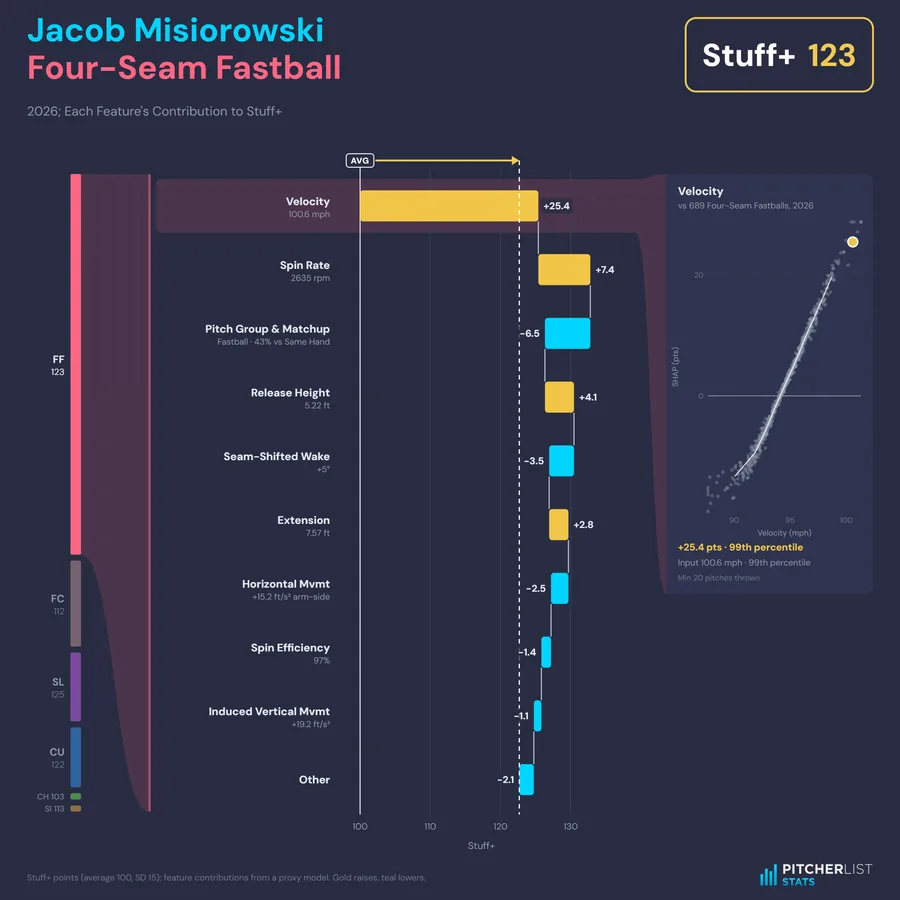
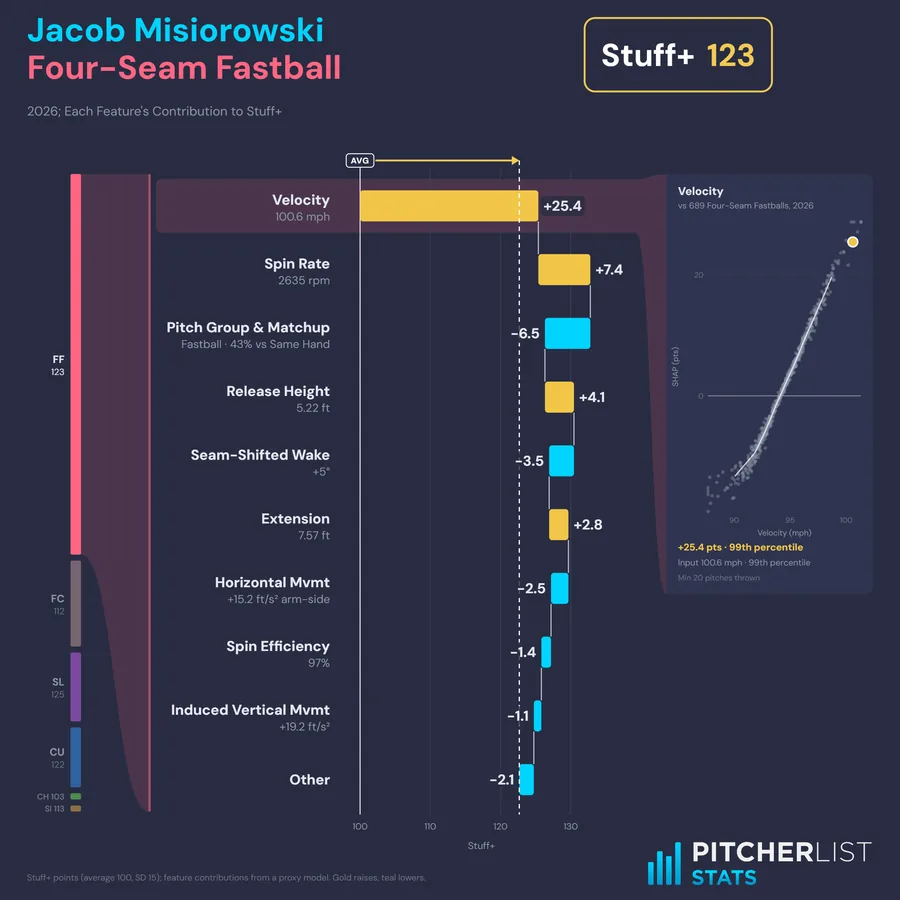
Model Drilldown: KPI box placement, doubled wordmark, fitted waterfall labels, phone fit
- The KPI box is centred between where the season's longest pitcher name (or pitch type name)
  ends at the title size and the card's right edge, so it sits still from pitcher to pitcher.
- The Pitcher List wordmark is twice the size (300 px). Footer notes wrap to stay clear of it,
  and the beeswarm's colour key moves up above it.
- The waterfall's row labels, sub-labels (0.8x) and value numbers share one font size: the
  largest at which every label stays on one line between the funnel and the bars and every
  label block fits its row (14.5-32 px; 19 px for the feature splits, 25 for outcomes).
  Value chips scale with it.
- The drilldown figure scales to the screen on a phone: as wide as its card, no taller than the
  viewport, still square, no sideways scroll. The beeswarm and Sankey keep their scroll.
- Homepage tile redrawn (?v=6).

charts.js ?v=36, app.js ?v=38.

diff --git a/model-drilldown/charts.js b/model-drilldown/charts.js
@@ -53,6 +53,12 @@ export function kpiColor(t) {
   return `rgb(${to.map((c) => Math.round(255 + (c - 255) * a)).join(',')})`;
 }
 
+// Where the longest title line ends: the longest of these names, or of the pitch type names
+// (the title's second line), at the title's 44 px.
+export function titleRight(names) {
+  return 36 + Math.max(...names.map((n) => textWidth(n, 44)), ...Object.values(PITCH_NAMES).map((n) => textWidth(n, 44)));
+}
+
 // the KPI box's target on one line: "Stuff+", "In-Play Out% (PLV)", "ERA (Stuff)"
 export const kpiName = (model, target) => (isPlus(target) ? MODELS[model].title : `${TARGET_NAMES[target]} (${MODELS[model].short})`);
 
@@ -101,6 +107,20 @@ function valueColor(t) {
 const svgOpen = (W, H, cls) => `<svg xmlns="http://www.w3.org/2000/svg" viewBox="0 0 ${W} ${n1(H)}" class="${cls}" font-family='${FONT}' role="img">`
   + `<rect class="bg" data-m="bg" width="${W}" height="${n1(H)}" rx="10" fill="${C.card}"/>`;
 const wordmark = (x, y, w) => `<image class="wordmark" data-m="wm" href="${WORDMARK_URL}" x="${x}" y="${n1(y)}" width="${w}" height="${n1(w * WM_ASPECT)}"/>`;
+const WM_W = 300;  // the wordmark's width: twice the old 150
+const corner = (W, H) => wordmark(W - 36 - WM_W, H - 20 - WM_W * WM_ASPECT, WM_W);
+// A footer note, wrapped so it stays clear of the wordmark: its last line on H - 26, the lines
+// before it stacked above.
+function footnote(str, W, H) {
+  const max = W - 36 - WM_W - 24 - 36;
+  const lines = [''];
+  for (const word of str.split(' ')) {
+    const next = lines[lines.length - 1] ? `${lines[lines.length - 1]} ${word}` : word;
+    if (textWidth(next, 11.5) * 0.94 > max && lines[lines.length - 1]) lines.push(word);  // regular, not bold
+    else lines[lines.length - 1] = next;
+  }
+  return lines.map((l, i) => text(36, H - 26 - 16 * (lines.length - 1 - i), l, `font-size="11.5" fill="${C.faint}"`, i ? `foot${i}` : 'foot')).join('');
+}
 const text = (x, y, s, attrs = '', m = null) => `<text${m ? ` data-m="${esc(m)}"` : ''} x="${n1(x)}" y="${n1(y)}" ${attrs}>${esc(s)}</text>`;
 const head = (x, y, s, anchor, m, fill = C.faint, size = 11) => text(x, y, s.toUpperCase(), `font-size="${n1(size)}" font-weight="600" letter-spacing="${n1(size * 0.145)}" fill="${fill}" text-anchor="${anchor}"`, m);
 
@@ -118,7 +138,10 @@ function header(W, ctx, subtitle) {
   const lw = Math.max(...lines.map((l) => textWidth(l, size)));
   const vw = textWidth(val, VS);
   const bw = pad + lw + gap + vw + pad;
-  const kx = W - 36 - bw;
+  // centred between where the season's longest title line ends (ctx.titleRight, so the box
+  // sits still from pitcher to pitcher) and the card's right edge
+  const right = ctx.titleRight ?? titleRight([info.pitcher_name]);
+  const kx = Math.min(W - 12 - bw, (right + W) / 2 - bw / 2);
   const lx = kx + pad + lw / 2, vx = kx + pad + lw + gap;
   const base = one ? [cy + 15] : [cy - 3.5, cy + 18.5];  // one line shares the value's baseline
   const lab = `font-size="${size}" font-weight="700" fill="#fff" text-anchor="middle"`;
@@ -219,13 +242,24 @@ export function flowSvg(ctx) {
   let d0 = lo - pad, d1 = hi + pad * 1.6;
   // Widen the axis until every value, chip and all, fits beside its bar: a drag's number (left
   // of its bar) must clear the row labels, a lift's (right) the funnel.
+  // One font size for every row's label, value and sub-label (at 0.8x): the largest at which
+  // each label and sub-label fits on one line between the funnel's bracket and the bars, and each
+  // label block fits its row's height. Kept between the card's 14.5 and 32 px.
+  const subOf = (r) => (r.k === 'Other' || GROUPS[r.k] ? '' : r.detail);  // Other, Location, Count: name only
+  const per = (str) => textWidth(str, 100) / 100;  // width per px of font size
+  const room = LX - (HX0 + 14);
+  const FS = Math.max(14.5, Math.min(32,
+    room / Math.max(...rows.map((r) => per(r.label))),
+    room / (0.8 * Math.max(1e-9, ...rows.map((r) => per(subOf(r))))),
+    (S * 0.82) / 1.9));
+  const SUB = FS * 0.8;
   const ROOM_L = LX + 10, ROOM_R = HX1 - 6;
   for (let iter = 0; iter < 8; iter++) {
     const k = (X1 - X0) / (d1 - d0);
     let over = 0, under = 0, at = unit.league;
     for (const r of rows) {
       const end = at + r.v;
-      const tw = textWidth(f.d(r.v), 13) + 11;  // gap to the bar, chip padding
+      const tw = textWidth(f.d(r.v), FS) + 11;  // gap to the bar, chip padding
       if (r.v >= 0) over = Math.max(over, X0 + (Math.max(at, end) - d0) * k + tw - ROOM_R);
       else under = Math.max(under, ROOM_L - (X0 + (Math.min(at, end) - d0) * k - tw));
       at = end;
@@ -257,13 +291,13 @@ export function flowSvg(ctx) {
     // the lift, on a translucent chip so it reads over the league and final-value lines
     const right = r.v >= 0;
     const val = f.d(r.v);
-    const tw = textWidth(val, 13), tx = right ? b + 7 : a - 7;
-    front += `${g}><rect data-m="vb:${r.k}" x="${n1(right ? tx - 4 : tx - tw - 4)}" y="${n1(cy - 10)}" width="${n1(tw + 8)}" height="20" rx="4" fill="${C.card}" fill-opacity=".8"/>`;
-    front += text(tx, cy + 4.5, val, `font-size="13" font-weight="700" fill="${C.ink}" text-anchor="${right ? 'start' : 'end'}"`, `v:${r.k}`);
+    const tw = textWidth(val, FS), tx = right ? b + 7 : a - 7, ch = FS + 7;
+    front += `${g}><rect data-m="vb:${r.k}" x="${n1(right ? tx - 4 : tx - tw - 4)}" y="${n1(cy - ch / 2)}" width="${n1(tw + 8)}" height="${n1(ch)}" rx="4" fill="${C.card}" fill-opacity=".8"/>`;
+    front += text(tx, cy + FS * 0.35, val, `font-size="${n1(FS)}" font-weight="700" fill="${C.ink}" text-anchor="${right ? 'start' : 'end'}"`, `v:${r.k}`);
     // Other, Location and Count carry no sub-label here (the tooltip and league panel say more)
-    const sub = r.k === 'Other' || GROUPS[r.k] ? '' : r.detail;  // Other, Location, Count: name only
-    front += text(LX, sub ? cy - 1 : cy + 5, r.label, `font-size="14.5" font-weight="700" fill="${C.ink}" text-anchor="end"`, `l:${r.k}`);
-    if (sub) front += text(LX, cy + 15, sub, `font-size="11.5" fill="${C.muted}" text-anchor="end"`, `dt:${r.k}`);
+    const sub = subOf(r);
+    front += text(LX, sub ? cy - FS * 0.07 : cy + FS * 0.35, r.label, `font-size="${n1(FS)}" font-weight="700" fill="${C.ink}" text-anchor="end"`, `l:${r.k}`);
+    if (sub) front += text(LX, cy + FS * 1.03, sub, `font-size="${n1(SUB)}" fill="${C.muted}" text-anchor="end"`, `dt:${r.k}`);
     front += '</g>';
     if (on) selRow = { cy, col, r };
     x = end;
@@ -313,8 +347,8 @@ export function flowSvg(ctx) {
     : f.unit === 'wOBA' ? `wOBA on contact, per ball in play (league ${woba(unit.league)})`
     : f.unit === 'runs' ? `Runs per 9 innings (league ERA ${unit.league.toFixed(2)}): season constant − 9 × run value per pitch × modelled pitches per inning`
       : `Percentage points of the per-pitch probability (league ${unit.league.toFixed(1)}%)`;
-  s += text(36, H - 26, `${note}; ${ctx.byOutcome ? 'an exact split, no proxy' : 'feature contributions from a proxy model'}. ${good > 0 ? 'Gold raises, teal lowers' : 'Gold lowers, teal raises'}.`, `font-size="11.5" fill="${C.faint}"`, 'foot');
-  s += wordmark(W - 36 - 150, H - 48, 150);
+  s += footnote(`${note}; ${ctx.byOutcome ? 'an exact split, no proxy' : 'feature contributions from a proxy model'}. ${good > 0 ? 'Gold raises, teal lowers' : 'Gold lowers, teal raises'}.`, W, H);
+  s += corner(W, H);
   return s + '</svg>';
 }
 
@@ -473,7 +507,7 @@ export function swarmSvg(ctx) {
     .filter((r) => !r.season && !(r.k === 'is_primary' && inert))
     .sort((a, b) => Math.abs(b.v) - Math.abs(a.v));
   const BH = rows.length * RH;
-  const H = top + BH + 104;
+  const H = top + BH + 180;  // the axis, the colour key, then the wordmark under it
   let s = svgOpen(W, H, 'fig swarm-fig');
   s += header(W, ctx, `${season}  ·  every row's ${ctx.byOutcome ? 'run value' : 'SHAP'}, ${poolLabel.replace(/^vs /, '')}`);
   // One shared axis, clipped to the 0.5th-99.5th percentile of every row's values pooled (so one
@@ -552,13 +586,13 @@ export function swarmSvg(ctx) {
     byRow.push({ k: r.k, cy, pts });
   });
   // colour key
-  const kx = L, ky = H - 36;
+  const kx = L, ky = top + BH + 78;
   s += text(kx - 16, ky + 4, ctx.byOutcome ? 'Unit\'s predicted rate' : 'Unit\'s mean input', `font-size="11.5" fill="${C.muted}" text-anchor="end"`, 'k1');
   for (let i = 0; i <= 20; i++) s += `<rect data-m="kc:${i}" x="${kx + i * 6}" y="${ky - 5}" width="6.5" height="10" fill="${valueColor(i / 20)}"/>`;
   s += text(kx + 134, ky + 4, 'low → high   (grey: no single input)', `font-size="11.5" fill="${C.muted}"`, 'k2');
   s += `<path data-m="kd" d="M${kx + 400},${ky - 11}L${kx + 406},${ky}L${kx + 400},${ky + 11}L${kx + 394},${ky}Z" fill="${C.gold}" stroke="#fff" stroke-width="1.5" stroke-linejoin="round"/>`;
   s += text(kx + 414, ky + 4, `${info.pitcher_name}'s ${PITCH_NAMES[info.pt] || info.pt}`, `font-size="11.5" fill="${C.muted}"`, 'k3');
-  s += wordmark(W - 36 - 150, H - 48, 150);
+  s += corner(W, H);
   swarmPoints = { rows: byRow, RH };
   return s + '</svg>';
 }
@@ -622,7 +656,7 @@ export function sankeySvg(ctx) {
     });
   };
   const left = stack(lossOf), right = stack(gainOf), mid = stack(fh);
-  const H = Math.max(top + avail, ...[left, right, mid].map((c) => c[c.length - 1].y1)) + 100;
+  const H = Math.max(top + avail, ...[left, right, mid].map((c) => c[c.length - 1].y1)) + 130;
   let s = svgOpen(W, H, 'fig sankey-fig');
   s += header(W, ctx, `${season}  ·  ${model === 'stuff' ? 'Stuff' : 'PLV'} model outcome probabilities: what each row moves`);
   s += head(XL + NW, top - 22, 'Takes from', 'end', 'h1') + head(XM + NW / 2, top - 22, 'Row', 'middle', 'h2')
@@ -673,8 +707,8 @@ export function sankeySvg(ctx) {
     s += text(XM + NW + 8, (n.y0 + n.y1) / 2 + 4.5, `${f.label}  ${move(f).toFixed(2)}`, `font-size="13" font-weight="700" fill="${C.ink}" stroke="${C.card}" stroke-width="4" paint-order="stroke"`, `fl:${f.k}`);
     s += '</g>';
   });
-  s += text(36, H - 26, `Percentage points of each per-pitch outcome probability against the league; a row's number is the probability it moves. Ribbons under ${MIN_LINK} pp are left out.`, `font-size="11.5" fill="${C.faint}"`, 'foot');
-  s += wordmark(W - 36 - 150, H - 48, 150);
+  s += footnote(`Percentage points of each per-pitch outcome probability against the league; a row's number is the probability it moves. Ribbons under ${MIN_LINK} pp are left out.`, W, H);
+  s += corner(W, H);
   return s + '</svg>';
 }
 export const sankeyLink = (i) => sankeyLinks[i];

diff --git a/model-drilldown/app.js b/model-drilldown/app.js
@@ -9,8 +9,8 @@ import {
 } from './data.js?v=7';
 import {
   flowSvg, swarmSvg, sankeySvg, svgToPng, nearestPanelPoint, nearestSwarmPoint, sankeyLink,
-  formats, pctile, ord, niceTicks, C,
-} from './charts.js?v=33';
+  formats, pctile, ord, niceTicks, titleRight, C,
+} from './charts.js?v=36';
 import { morph } from './morph.js?v=1';
 
 const DEFAULT = { season: 2026, pitcher: 694819, pt: 'FF' };  // Jacob Misiorowski's four-seamer
@@ -228,6 +228,12 @@ function kpiShade(unit) {
   return { t: targetGood(state.target) * (2 * p - 1), floor, n: vals.length, pct: Math.round(100 * p) };
 }
 
+// where the season's longest pitcher name ends at the title size, for the KPI box's place
+function seasonTitleRight() {
+  feats._titleRight ??= titleRight(feats.pitchers.map((p) => p.name));
+  return feats._titleRight;
+}
+
 function render() {
   const info = feats.byUnit.get(`${state.pitcher}|${state.pt}`);
   const unit = units.byKey.get(`${state.pitcher}|${state.pt}|${tableTarget(state.target)}`);
@@ -247,7 +253,7 @@ function render() {
   const arsenal = feats.byId.get(state.pitcher).pts.map((u) => ({ pt: u.pt, n: u.n, unit: units.byKey.get(`${state.pitcher}|${u.pt}|${tableTarget(state.target)}`) }));
   const { pool, label, what } = poolFor(info);
   const perTarget = new Map([...TARGETS, ...RV].map((t) => [t, units.byKey.get(`${state.pitcher}|${state.pt}|${t}`)]));
-  view = { meta, model: state.model, target: state.target, season: state.season, info, unit, rows, arsenal, selected: row, pool, poolLabel: label, poolWhat: what, minN: Number(el.minN.value), units: perTarget, kpi: kpiShade(unit) };
+  view = { meta, model: state.model, target: state.target, season: state.season, info, unit, rows, arsenal, selected: row, pool, poolLabel: label, poolWhat: what, minN: Number(el.minN.value), titleRight: seasonTitleRight(), units: perTarget, kpi: kpiShade(unit) };
   // by outcome, the league charts read each row's run value and the unit's predicted rate
   if (byOutcome) {
     Object.assign(view, {

diff --git a/model-drilldown/index.html b/model-drilldown/index.html
@@ -2,9 +2,9 @@
 <html lang="en">
 <head>
 <meta charset="utf-8">
-<link rel="modulepreload" href="app.js?v=35">
+<link rel="modulepreload" href="app.js?v=38">
 <link rel="modulepreload" href="data.js?v=7">
-<link rel="modulepreload" href="charts.js?v=33">
+<link rel="modulepreload" href="charts.js?v=36">
 <link rel="modulepreload" href="morph.js?v=1">
 <link rel="modulepreload" href="https://cdn.jsdelivr.net/npm/hyparquet@1.31.1/+esm">
 <meta name="viewport" content="width=device-width,initial-scale=1">
@@ -67,6 +67,11 @@ button:disabled{opacity:.45; cursor:default}
 .opts input[type=checkbox]{width:16px; height:16px; margin:0; accent-color:var(--accent)}
 .figure{background:#292C42; border-radius:10px; overflow-x:auto; overscroll-behavior-x:contain}
 .figure svg{display:block; width:100%; min-width:900px; height:auto; user-select:none; -webkit-user-select:none}
+/* the drilldown is square and scales to the screen instead of scrolling: as wide as its card
+   allows, and no taller than the viewport */
+#flow{overflow:hidden}
+#flow svg{min-width:0; width:100%; max-width:min(100%, 100svh); margin:0 auto}
+@media (max-width:600px){ #out{padding:12px 8px} }
 .figure .row,.figure [data-pt],.figure .srow,.figure .fnode{cursor:pointer}
 .figure .panel-hit{cursor:crosshair}
 .figure .fx{transition:opacity .12s}
@@ -200,6 +205,6 @@ details[open] summary{margin-bottom:10px}
   </section>
 </main>
 <div id="tip" hidden role="tooltip"></div>
-<script type="module" src="app.js?v=35"></script>
+<script type="module" src="app.js?v=38"></script>
 </body>
 </html>

diff --git a/index.html b/index.html
@@ -136,7 +136,7 @@
 								</article>
 									<article class="style1">
 									<span class="image">
-										<img src="images/tile-model-drilldown.webp?v=5" srcset="images/tile-model-drilldown-720.webp?v=5 720w, images/tile-model-drilldown.webp?v=5 900w" sizes="(max-width: 480px) 100vw, (max-width: 980px) 50vw, 380px" width="900" height="900" alt="Jacob Misiorowski's 2026 four-seam fastball, Stuff+ SHAP waterfall" />
+										<img src="images/tile-model-drilldown.webp?v=6" srcset="images/tile-model-drilldown-720.webp?v=6 720w, images/tile-model-drilldown.webp?v=6 900w" sizes="(max-width: 480px) 100vw, (max-width: 980px) 50vw, 380px" width="900" height="900" alt="Jacob Misiorowski's 2026 four-seam fastball, Stuff+ SHAP waterfall" />
 									</span>
 									<a href="/model-drilldown/">
 										<h2>Model Drilldown</h2>
